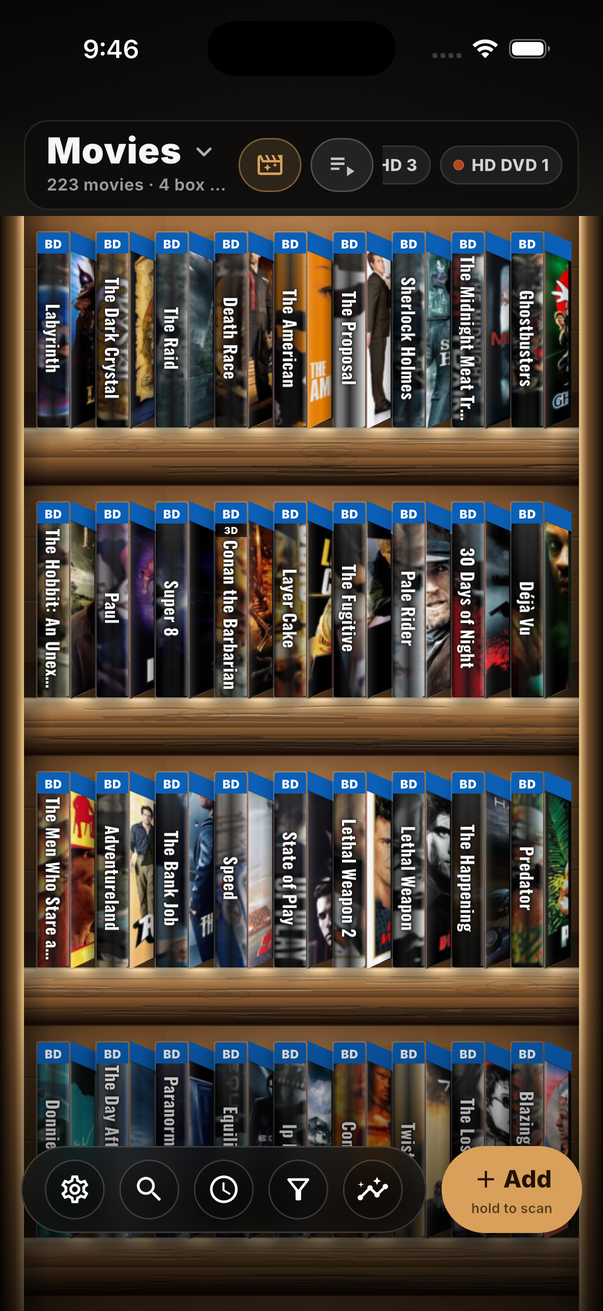
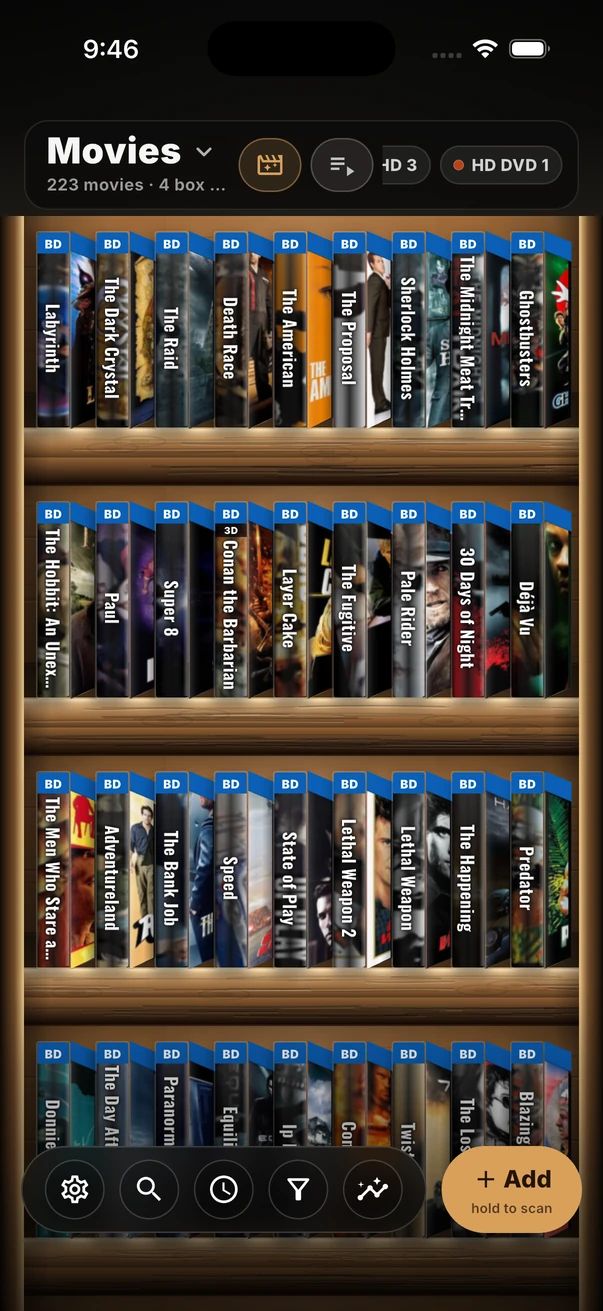
Improve mobile performance and accessible scrolling

diff --git a/index.html b/index.html
@@ -129,7 +129,7 @@
       outline-offset: 1px;
     }
     .store-badge { display: block; height: auto; }
-    .store-badge-app { width: 180px; }
+    .store-badge-app { width: 180px; aspect-ratio: 119.66407 / 40; }
     .store-badge-google { width: 208px; }
 
     .hero-art {
@@ -243,8 +243,8 @@
     }
   .migration-cta {display:block; margin-top:26px;padding:18px 20px;border:1px solid var(--amber);border-radius:14px;background:#352315;text-decoration:none}.migration-cta span {display:block;color:var(--muted);font-size:0.875rem}.migration-cta strong {display:block;color:var(--amber-soft);font-size:1.125rem}.migration-cta strong span {display:inline;color:inherit}.hero {min-height:740px;padding:50px 0 65px}h1{font-size:clamp(3rem,6.1vw,4.875rem)}:focus-visible{outline:3px solid #ffd89d;outline-offset:5px}
 </style>
-  <link rel="stylesheet" href="interactive.css?v=20260906-4">
-  <script src="interactive.js?v=20260906-4" defer></script>
+  <link rel="stylesheet" href="interactive.css?v=6-5">
+  <script src="interactive.js?v=6-5" defer></script>
 </head>
 <body>
   <a class="skip-link" href="#main-content">Skip to content</a>
@@ -281,17 +281,17 @@
         <p class="promise">Free core. Free imports and exports. Optional lifetime Pro.</p>
         <div class="store-actions" aria-label="Store availability">
           <a class="store-badge-link" href="https://play.google.com/store/apps/details?id=com.blurayshelf.movie_shelf" target="_blank" rel="noopener noreferrer" aria-label="Get Cinecase on Google Play">
-            <img class="store-badge store-badge-google" src="assets/google-play-badge.png" alt="Get it on Google Play">
+            <img class="store-badge store-badge-google" src="assets/google-play-badge.png" width="646" height="250" alt="Get it on Google Play">
           </a>
           <a class="store-badge-link" href="https://apps.apple.com/app/id6789741630" target="_blank" rel="noopener noreferrer" aria-label="Download Cinecase on the App Store">
-            <img class="store-badge store-badge-app" src="assets/app-store-badge.svg" alt="Download on the App Store">
+            <img class="store-badge store-badge-app" src="assets/app-store-badge.svg" width="120" height="40" alt="Download on the App Store">
           </a>
         </div>
       </div>
       <div class="hero-art">
         <div class="hero-composite" role="img" aria-label="Cinecase displaying the Large shelf view inside a phone on a warm wooden shelf">
           <img class="hero-background" src="assets/hero-reddit.webp" width="1000" height="1250" fetchpriority="high" alt="">
-          <img class="hero-screen" src="assets/hero-shelf-large.webp" width="603" height="1311" alt="">
+          <img class="hero-screen" src="assets/hero-shelf-large.webp?v=2" width="603" height="1311" alt="">
         </div>
       </div>
     </div>
@@ -315,7 +315,7 @@
             </article>
           </div>
         </div>
-        <div class="tour-controls wrap" aria-label="Tour chapters"><div class="chapter-links"><a href="#tour-shelf" aria-label="Chapter 1: Your shelf">01 <span>Your shelf</span></a><a href="#tour-collection" aria-label="Chapter 2: Collections">02 <span>Collections</span></a><a href="#tour-stats" aria-label="Chapter 3: The bigger picture">03 <span>The bigger picture</span></a></div><span class="scroll-hint">Scroll to explore <span aria-hidden="true">↓</span></span></div>
+        <div class="tour-controls wrap" aria-label="Tour chapters"><div class="chapter-links"><a href="#tour-shelf">01 <span>Your shelf</span></a><a href="#tour-collection">02 <span>Collections</span></a><a href="#tour-stats">03 <span>The bigger picture</span></a></div><span class="scroll-hint">Scroll to explore <span aria-hidden="true">↓</span></span></div>
         <div class="tour-progress" aria-hidden="true"><span></span></div>
       </div>
     </section>
@@ -382,10 +382,10 @@
     </section>
     <section id="download" class="download wrap" aria-labelledby="download-title"><p class="eyebrow">Your collection's next chapter</p><h2 id="download-title">Bring the shelf.<br>Find tonight's movie.</h2><p>Start free. Import free. Make yourself at home.</p>        <div class="store-actions" aria-label="Store availability">
           <a class="store-badge-link" href="https://play.google.com/store/apps/details?id=com.blurayshelf.movie_shelf" target="_blank" rel="noopener noreferrer" aria-label="Get Cinecase on Google Play">
-            <img class="store-badge store-badge-google" src="assets/google-play-badge.png" alt="Get it on Google Play">
+            <img class="store-badge store-badge-google" src="assets/google-play-badge.png" width="646" height="250" alt="Get it on Google Play">
           </a>
           <a class="store-badge-link" href="https://apps.apple.com/app/id6789741630" target="_blank" rel="noopener noreferrer" aria-label="Download Cinecase on the App Store">
-            <img class="store-badge store-badge-app" src="assets/app-store-badge.svg" alt="Download on the App Store">
+            <img class="store-badge store-badge-app" src="assets/app-store-badge.svg" width="120" height="40" alt="Download on the App Store">
           </a>
         </div>
 <a class="text-link" href="#migration">Read the migration guide ↑</a></section>

diff --git a/interactive.js b/interactive.js
@@ -3,6 +3,7 @@
   const tour = document.querySelector('.tour');
   const slides = [...document.querySelectorAll('.tour-slide')];
   const chapters = [...document.querySelectorAll('.chapter-links a')];
+  const supportsInert = slides.every(slide => 'inert' in slide);
   const pinQuery = matchMedia('(min-width: 901px) and (min-height: 701px) and (prefers-reduced-motion: no-preference)');
   let frame = 0;
   let pinned = false;
@@ -23,8 +24,18 @@
   }
   function queue() { if (!frame) frame = requestAnimationFrame(update); }
   function configure() {
-    pinned = pinQuery.matches;
+    document.documentElement.style.setProperty('--header-height', `${document.querySelector('header').offsetHeight}px`);
+    // Keep all content in document flow if large text cannot fit the stage,
+    // or the browser cannot remove offscreen panels from keyboard navigation.
+    pinned = pinQuery.matches && supportsInert;
     tour.classList.toggle('is-pinned', pinned);
+    if (pinned) {
+      const available = tour.querySelector('.tour-window').clientHeight;
+      if (slides.some(slide => slide.querySelector('.tour-copy').scrollHeight + 40 > available)) {
+        pinned = false;
+        tour.classList.remove('is-pinned');
+      }
+    }
     current = -1;
     slides.forEach(slide => {slide.inert = false;});
     if (!pinned) {tour.style.removeProperty('--progress');chapters.forEach(a => a.removeAttribute('aria-current'));}
@@ -48,7 +59,10 @@
     });
   });
   window.addEventListener('scroll',queue,{passive:true});
-  window.addEventListener('resize',queue,{passive:true});
+  window.addEventListener('resize',configure,{passive:true});
+  document.querySelectorAll('.mobile-nav a').forEach(link => {
+    link.addEventListener('click', () => {link.closest('details').open = false;});
+  });
   pinQuery.addEventListener('change',configure);
   configure();
   function restoreHash() {

diff --git a/interactive.css b/interactive.css
@@ -1,6 +1,6 @@
 :root {--header-height:73px}
-html {scroll-padding-top:90px}
-[id] {scroll-margin-top:90px}
+html {scroll-padding-top:calc(var(--header-height) + 16px)}
+[id] {scroll-margin-top:0}
 .skip-link {position:fixed;left:20px;top:-100px;z-index:100;background:var(--amber-soft);color:#17100b;padding:12px 20px}
 .skip-link:focus {top:10px}
 .button,.text-link {font-weight:750;text-underline-offset:6px}.button {display:inline-flex;gap:24px;align-items:center;min-height:48px;padding:14px 22px;background:var(--amber-soft);color:#21140e;border-radius:8px;text-decoration:none}.text-link {display:inline-block;padding-block:12px;color:var(--amber-soft)}
@@ -38,3 +38,6 @@ body{overflow-x:clip}
 .mobile-nav-links{position:absolute;right:0;top:100%;width:min(20rem,calc(100vw - 28px));padding:12px;background:#21140e;border:1px solid var(--line);border-radius:12px;box-shadow:var(--shadow)}
 .mobile-nav-links a{display:block;padding:12px;color:var(--ink);font-size:1rem;text-decoration:none}
 @media(max-width:900px){.nav-links{display:none}.mobile-nav{display:block}}
+
+h1,h2,h3{overflow-wrap:anywhere}
+nav{flex-wrap:wrap}
